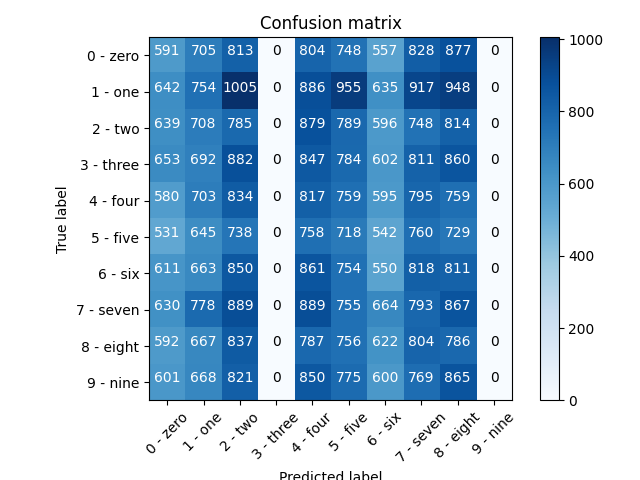
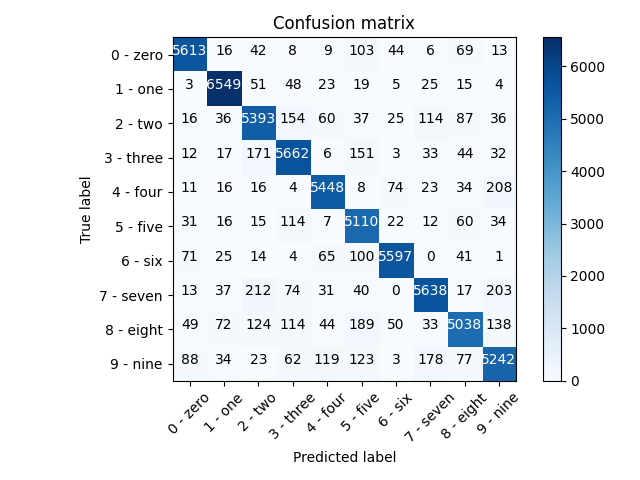
initial

diff --git a/src/mnist_cnn.py b/src/mnist_cnn.py
@@ -3,7 +3,7 @@
 import torch
 import torch.nn as nn
 import torch.nn.functional as F
-import time
+import os, time
 import matplotlib.pyplot as plt
 from sklearn.metrics import confusion_matrix
 from plotConfusionMatrix import plot_confusion_matrix
@@ -11,7 +11,7 @@ from plotConfusionMatrix import plot_confusion_matrix
 from commonTorch import ClassifierNet, ClassifierCNN_Net
 from commonTorch import ClassifierCNN_Net2, ClassifierCNN_Net3
 from commonTorch import optimizerTorch,optimizerDesc
-from mnist_fc import prepareData,saveModel,writeLog
+from mnist_fc import prepareData,saveModel,writeLog,load_model
    
 def accuracy(net,dataset):
     correct = 0
@@ -25,8 +25,22 @@ def accuracy(net,dataset):
                     #correct += 1
                 correct = correct + int(torch.argmax(i) == y[idx])
                 total += 1
-    print('Accuracy1: ', round(correct/total,3))
+    return correct/total
 
+def accuracy2(net, train):
+    train.data = train.data.view(-1, 1, 28, 28)
+    train.data = train.data.type(torch.FloatTensor)
+    print('train.data.shape=', train.data.shape, train.data.dtype)
+    print('train.targets.shape=', train.targets.shape, train.targets.dtype)
+    preds = net(train.data.view(-1, 1, 28, 28))
+    
+    print('preds.shape=', preds.shape)
+    preds_correct = get_num_correct(preds, train.targets)
+    print('total correct:', preds_correct)
+    acc = preds_correct / len(preds)
+    #print('accuracy:', acc)
+    return acc,preds
+    
 def get_num_correct(preds, labels):
     return preds.argmax(dim=1).eq(labels).sum().item()
          
@@ -40,12 +54,17 @@ def get_all_preds(net, dataset):
         return all_preds
     
 def evaluateModel(net,trainset,train):
-    accuracy(net,trainset)
-    preds = get_all_preds(net, trainset)
-    print('preds.shape=', preds.shape)
-    preds_correct = get_num_correct(preds, train.targets)
-    print('total correct:', preds_correct)
-    print('accuracy:', preds_correct / len(preds))
+    #acc = accuracy(net,trainset)
+    acc,preds = accuracy2(net, train)
+    print('Accuracy1:', round(acc,3))
+    
+    # #preds = get_all_preds(net, trainset)
+    # preds = net(train)
+    
+    # print('preds.shape=', preds.shape)
+    # preds_correct = get_num_correct(preds, train.targets)
+    # print('total correct:', preds_correct)
+    # print('accuracy:', preds_correct / len(preds))
     
     #confusion matrix
     # stacked = torch.stack((train.targets, preds.argmax(dim=1)), dim=1)
@@ -63,39 +82,66 @@ def plotLoss(loss,name='Loss'):
     plt.plot(loss)
     plt.show()  
     
+def plotLossAndAcc(loss,acc,name='Loss & Accuracy'):
+    plt.title(name)
+    plt.plot(loss, label='Loss')
+    plt.plot(acc, label='Accuracy')
+    plt.legend()
+    plt.tight_layout()
+    #plt.ylabel('Epoch')
+    plt.xlabel('Epoch')
+    plt.savefig(r'./res/loss.png')
+    plt.show()
+    
 def main():
-    trainset,testset,train,test = prepareData(batch_size=10)
+    trainset,testset,train,test = prepareData(batch_size=20000)
+    
+    curEpoch,curLoss = 0,0
+    weightsDir = r'./res/weights/'
     #net = ClassifierNet(input=28*28, output=10, hidden=20) #Fc
     #net = ClassifierCNN_Net(10) #cnn
     #net = ClassifierCNN_Net2(10) #Sequential cnn
     net = ClassifierCNN_Net3(10)
-    print(net)
+    optimizer = optimizerTorch(net.parameters(), lr=1e-3)
+    lossFuc = nn.CrossEntropyLoss() #nn.NLLLoss
     
-    optimizer = optimizerTorch(net.parameters(), lr=1e-6)
-    EPOCHS = 10
+    if 0:#continue training    
+        net,optimizer,curEpoch,curLoss = load_model(net, optimizer, weightsDir)
+        #net.eval()
+        #net.train()
+    
+    print(net)    
+    
+    EPOCHS = 50
     #optimizerDesc(optimizer)
 
     print('training start...')
-    losses = []
+    losse_list = []
+    acc_list=[]
     for epoch in range(EPOCHS):
         t = time.time()
         for data in trainset:
             X, y = data
-            # print('X.shape=',X.shape)
-            # print('y.shape=',y.shape)
+            #print('X.shape=',X.shape, X.dtype)
+            #print('y.shape=',y.shape, y.dtype)
             net.zero_grad()
             output = net(X)
-            loss = F.cross_entropy(output, y)
+            loss = lossFuc(output, y)
             loss.backward()
             optimizer.step()
-            losses.append(float(loss))
             
-        log= f'epoch[{epoch+1}/{EPOCHS}] loss={round(float(loss),4)},run in {round(time.time()-t,4)}s'
+        epoch = curEpoch + epoch
+        #acc,_ = accuracy2(net,train)
+        acc = accuracy(net,trainset)
+        acc_list.append(acc)
+        losse_list.append(float(loss))   
+         
+        log = f'epoch[{epoch+1-curEpoch}/{EPOCHS}][total:{epoch+1}], loss={round(float(loss),4)}, run in {round(time.time()-t,4)}s'
         print(log)
-        #writeLog(log + '\n')
+        writeLog(log + '\n')
             
-    #saveModel(net,optimizer,epoch,loss,r'./res/')
-    plotLoss(losses)
+    saveModel(net, optimizer, epoch, loss, weightsDir)
+    plotLossAndAcc(losse_list, acc_list)
     evaluateModel(net, trainset, train)
     
    

diff --git a/src/mnist_fc.py b/src/mnist_fc.py
@@ -50,10 +50,11 @@ def prepareData(batch_size=10):
     test = datasets.MNIST(r"./res/", train=False,
                         transform=transforms.Compose([transforms.ToTensor()]))
 
-    trainset = torch.utils.data.DataLoader(train,batch_size=batch_size,shuffle=True)
-    testset = torch.utils.data.DataLoader(test,batch_size=batch_size,shuffle=True)
+    trainset = torch.utils.data.DataLoader(train,batch_size=batch_size,shuffle=True, num_workers=4)
+    testset = torch.utils.data.DataLoader(test,batch_size=batch_size,shuffle=True, num_workers=4)
 
     print(type(train), train)
+    print('train.data=', train.data.shape, train.data.dtype)
     print('train.targets=', train.targets)
     #print(type(test),test)
     print(type(trainset),trainset)
@@ -100,32 +101,52 @@ def accuracy(net,dataset):
     print('Accuracy: ', round(correct/total,3))
 
 def saveModel(net, optimizer, epoch, loss, save_dir):
-        if not os.path.exists(save_dir):
-                os.makedirs(save_dir)
-                
-        net_path = os.path.join(save_dir, 'train_e%d.pth' % epoch)
+    if not os.path.exists(save_dir):
+            os.makedirs(save_dir)
+            
+    net_path = os.path.join(save_dir, 'train_e%d.pth' % epoch)
+    
+    #print('dict=',self.net.state_dict())
+    # for key in self.net.state_dict():
+    #     print('key=', key)
+    
+    torch.save({
+    'epoch': epoch+1,
+    'model_state_dict': net.state_dict(),
+    'optimizer_state_dict': optimizer.state_dict(),
+    'loss': loss,
+    }, net_path)
+    
+    #torch.save(self.net.state_dict(), net_path)
+     
+def load_model(net, optimizer, weightsDir):   
+    def getNewestModelCheckpoint(result_dir):
+        lists = os.listdir(result_dir)
+        lists.sort(key=lambda fn: os.path.getmtime(result_dir + fn))
+        file = os.path.join(result_dir, lists[-1])
+        return file
+    
+    modelFile = getNewestModelCheckpoint(weightsDir)
+    print('Continue training start, last weights file:', modelFile)
+    checkpoint = torch.load(modelFile)
+    #for key in checkpoint:
+        #print('key=',key)
         
-        #print('dict=',self.net.state_dict())
-        # for key in self.net.state_dict():
-        #     print('key=', key)
-        
-        torch.save({
-        'epoch': epoch+1,
-        'model_state_dict': net.state_dict(),
-        'optimizer_state_dict': optimizer.state_dict(),
-        'loss': loss,
-        }, net_path)
-        
-        #torch.save(self.net.state_dict(), net_path)
-        
+    net.load_state_dict(state_dict=checkpoint['model_state_dict'])
+    optimizer.load_state_dict(checkpoint['optimizer_state_dict'])
+    curEpoch = checkpoint['epoch']
+    loss = checkpoint['loss']
+    print('current already epochs:', curEpoch,',Loss:', loss)
+    return net,optimizer,curEpoch,loss
+           
 def writeLog(log):
-        logFile=r'log'
-        if not os.path.exists(logFile):
-            os.makedirs(logFile)
-        
-        logFile=logFile + '/' + 'log.txt'
-        with open(logFile,'a',newline='\n') as dstF:
-            dstF.write(log)
+    logFile=r'log'
+    if not os.path.exists(logFile):
+        os.makedirs(logFile)
+    
+    logFile=logFile + '/' + 'log.txt'
+    with open(logFile,'a',newline='\n') as dstF:
+        dstF.write(log)
                
 def main():
     #testLayers()

diff --git a/src/commonTorch.py b/src/commonTorch.py
@@ -310,20 +310,23 @@ class ClassifierCNN_Net3(nn.Module):
         super(ClassifierCNN_Net3, self).__init__()
         
         self.net = nn.Sequential(
-            nn.Conv2d(in_channels=1, out_channels=32, kernel_size=3),
-            nn.BatchNorm2d(32),
+            nn.Conv2d(in_channels=1, out_channels=8, kernel_size=3),
+            nn.Dropout(0.5),
+            nn.BatchNorm2d(8),
             nn.ReLU(inplace=True),
             nn.MaxPool2d(kernel_size=3, stride=2),
             
-            nn.Conv2d(32, 64, kernel_size=3),
-            nn.BatchNorm2d(64),
+            nn.Conv2d(8, 16, kernel_size=3),
+            nn.BatchNorm2d(16),
             nn.ReLU(inplace=True),
             nn.MaxPool2d(3, 2),
             
             nn.Flatten(),
-            nn.Linear(in_features=4*4*64,  out_features=256),
-            nn.Linear(in_features=256, out_features=output),
-            nn.Softmax(dim=1))
+            nn.Dropout(0.2),
+            nn.Linear(in_features=4*4*16,  out_features=64),
+            nn.Linear(in_features=64, out_features=output),
+            #nn.Softmax(dim=1),
+            nn.LogSoftmax(dim=1))
 
     def forward(self, x):
         return self.net(x)

diff --git a/src/plotConfusionMatrix.py b/src/plotConfusionMatrix.py
@@ -22,8 +22,9 @@ def plot_confusion_matrix(cm, classes, normalize=False, title='Confusion matrix'
     for i, j in itertools.product(range(cm.shape[0]), range(cm.shape[1])):
         plt.text(j, i, format(cm[i, j], fmt), horizontalalignment="center", color="white" if cm[i, j] > thresh else "black")
 
-    plt.tight_layout()
     plt.ylabel('True label')
     plt.xlabel('Predicted label')
+    plt.tight_layout()
+    plt.savefig(r'./res/cm.png')
     plt.show()
     

diff --git a/README.md b/README.md
@@ -17,3 +17,15 @@ PyTorch learning.
 |||
 |---|---|
 |<img src="images/loss.png" width="320" height="240" />|<img src="images/cm.png" width="320" height="240" />|
+
+## PyTorch Loss Functions 
+![equation](https://latex.codecogs.com/svg.latex?\Large&space;x=\frac{-b\pm\sqrt{b^2-4ac}}{2a})
+
+The mean squared error loss(MSELoss):<br/>
+<img src="https://latex.codecogs.com/svg.latex?\begin{equation}%20\begin{array}{l}%20\ell(x,y)=L=\left\{l_1,...,l_N%20%20\right\}^\top,%20l_n=(x_n-y_n)^2\\%20\ell(x,y)=%20\begin{cases}%20mean(L),&%20\text{if%20reduction=%27mean%27;}\\%20sum(L),&%20\text{if%20reduction=%27sum%27;}%20\end{cases}%20\end{array}%20\end{equation}"/>
+
+The Binary Cross Entropy(BCELoss):<br/>
+<img src="https://latex.codecogs.com/svg.latex?\begin{equation}%20\begin{array}{l}%20\ell(x,y)=L=\left\{l_1,...,l_N%20%20\right\}^\top,%20l_n=-w_n[y_n\cdot%20\log{x_n}+(1-y_n)\cdot%20\log{1-x_n}\\%20\ell(x,y)=%20\begin{cases}%20mean(L),&%20\text{if%20reduction=%27mean%27;}\\%20sum(L),&%20\text{if%20reduction=%27sum%27;}%20\end{cases}%20\end{array}%20\end{equation}"/>
+ 
+The Kullback-Leibler divergence loss(KLDivLoss):<br/>
+<img src="https://latex.codecogs.com/svg.latex?\begin{equation}%20\begin{array}{l}%20\ell(x,y)=L=\left\{l_1,...,l_N%20%20\right\}^\top,%20l_n=y_n\cdot(\log{y_n}-x_n)\\%20\ell(x,y)=%20\begin{cases}%20mean(L),&%20\text{if%20reduction=%27mean%27;}\\%20sum(L),&%20\text{if%20reduction=%27sum%27;}%20\end{cases}%20\end{array}%20\end{equation}"/>
